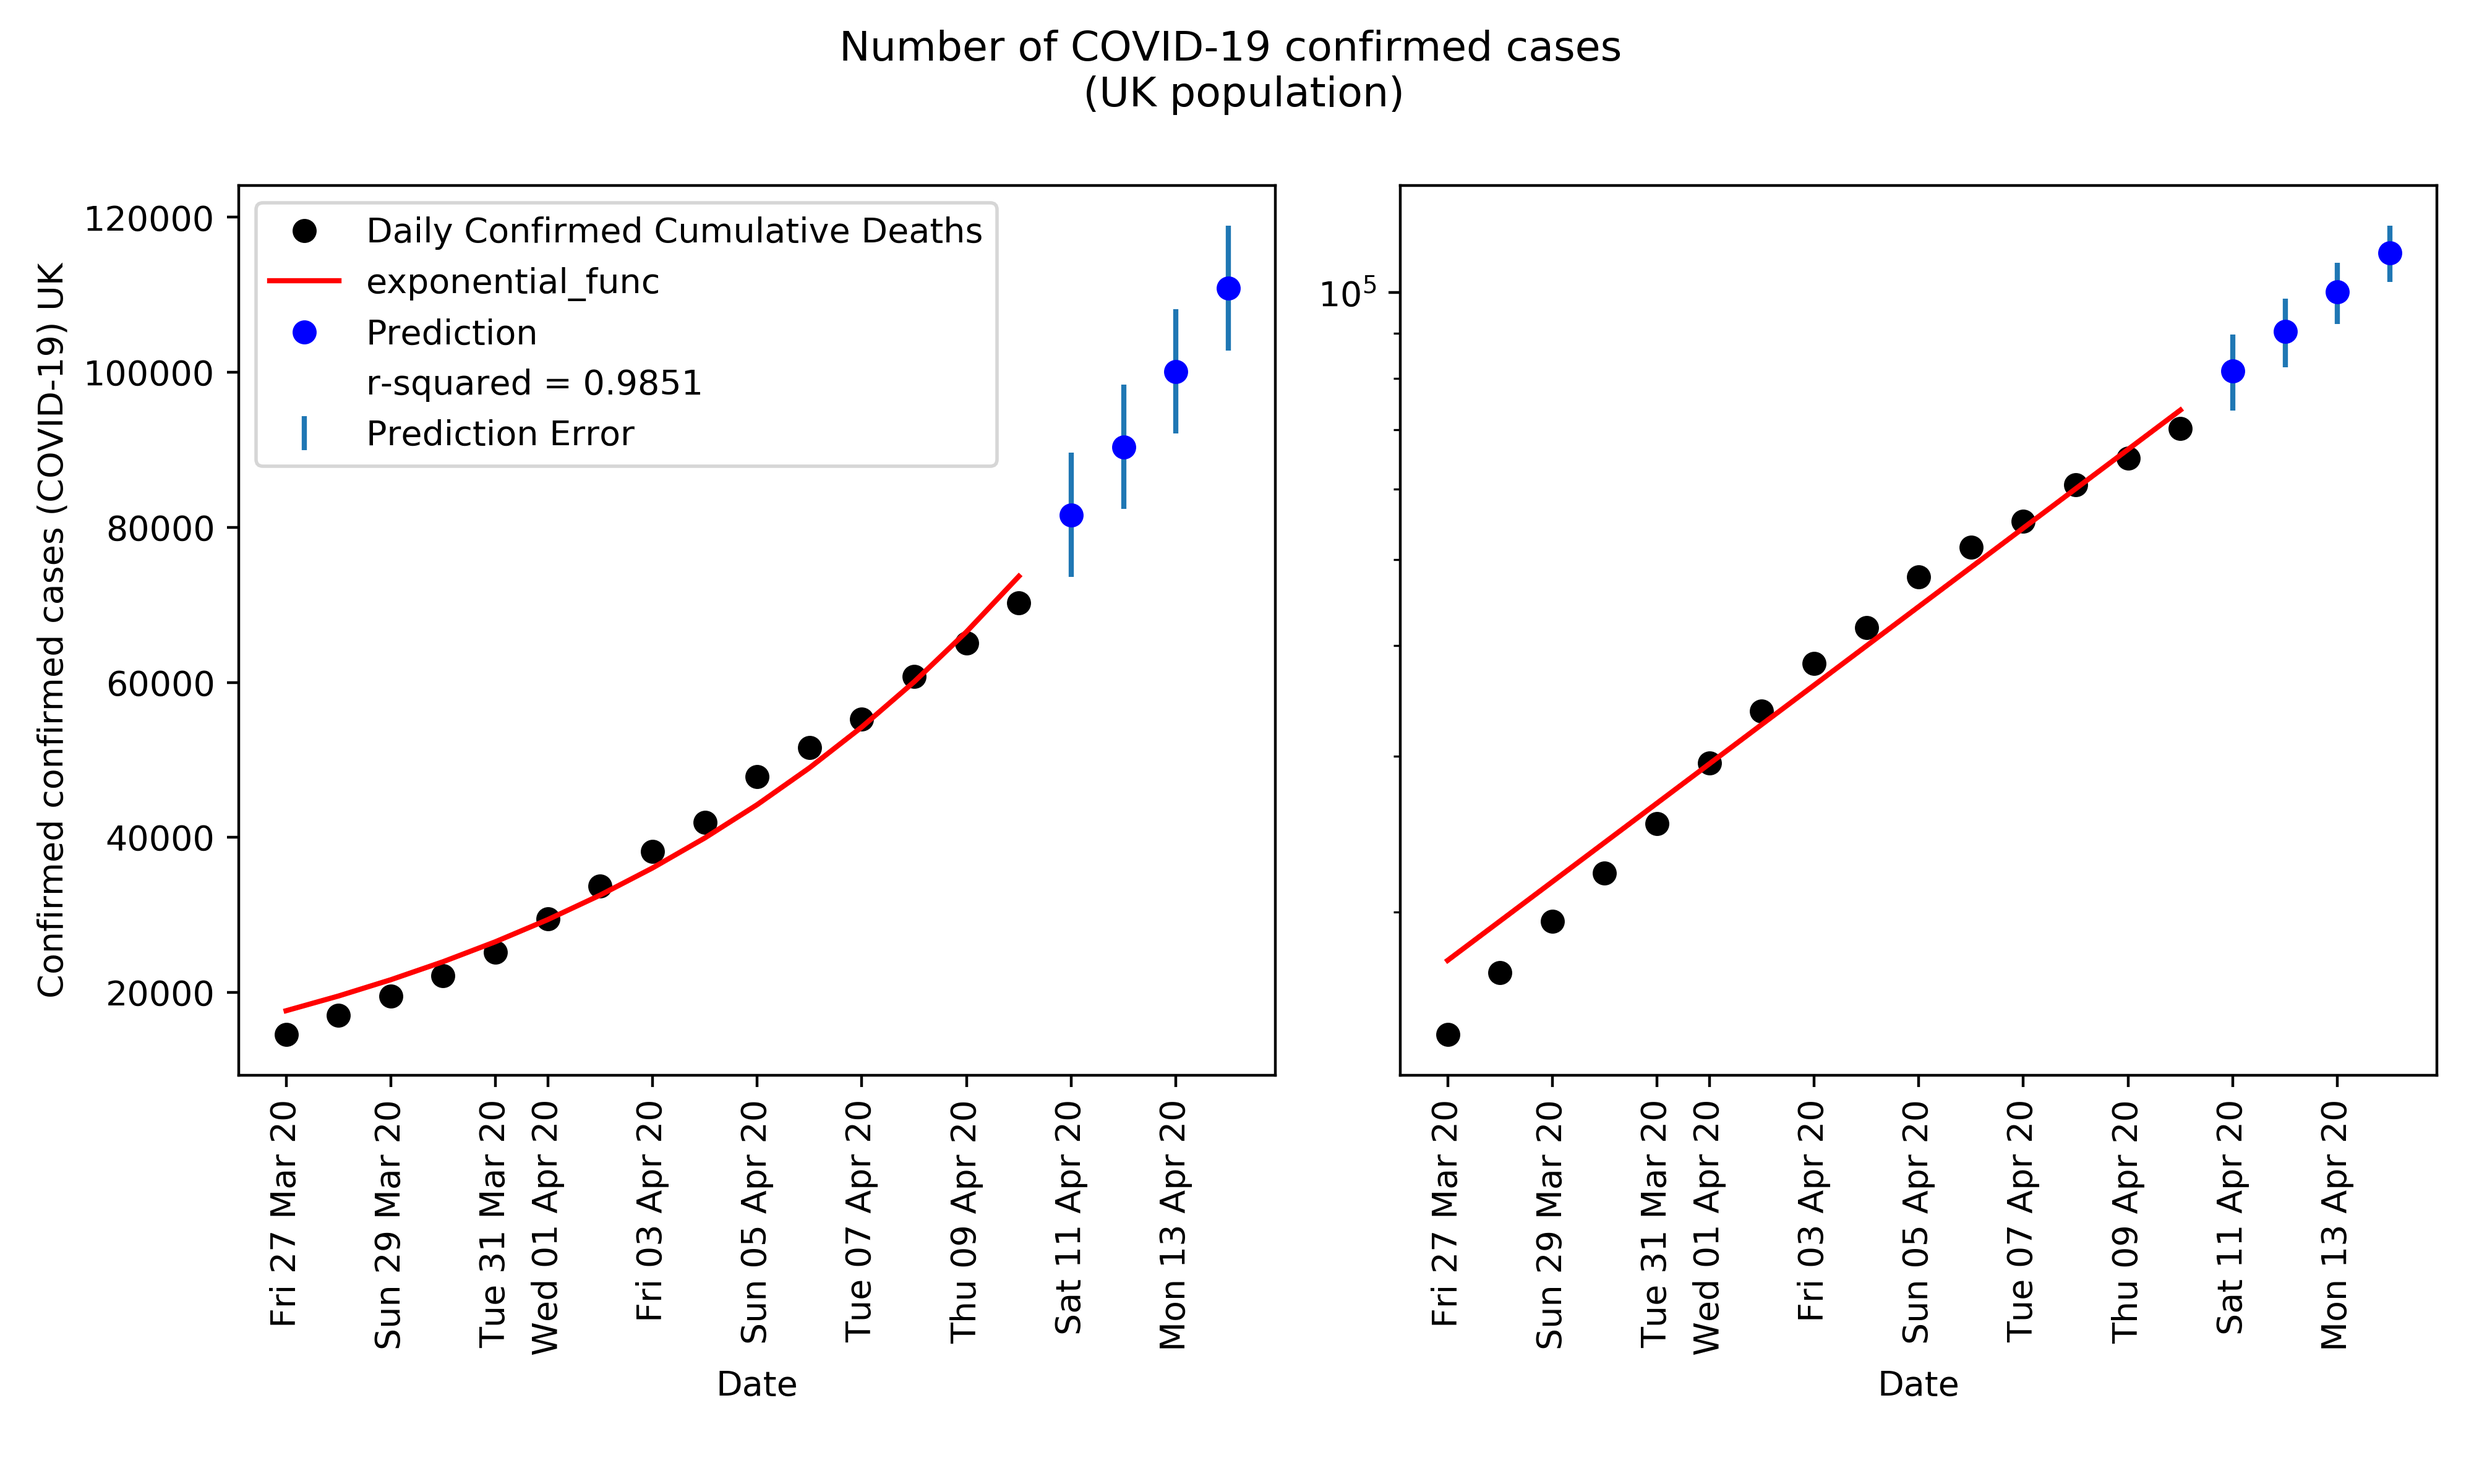
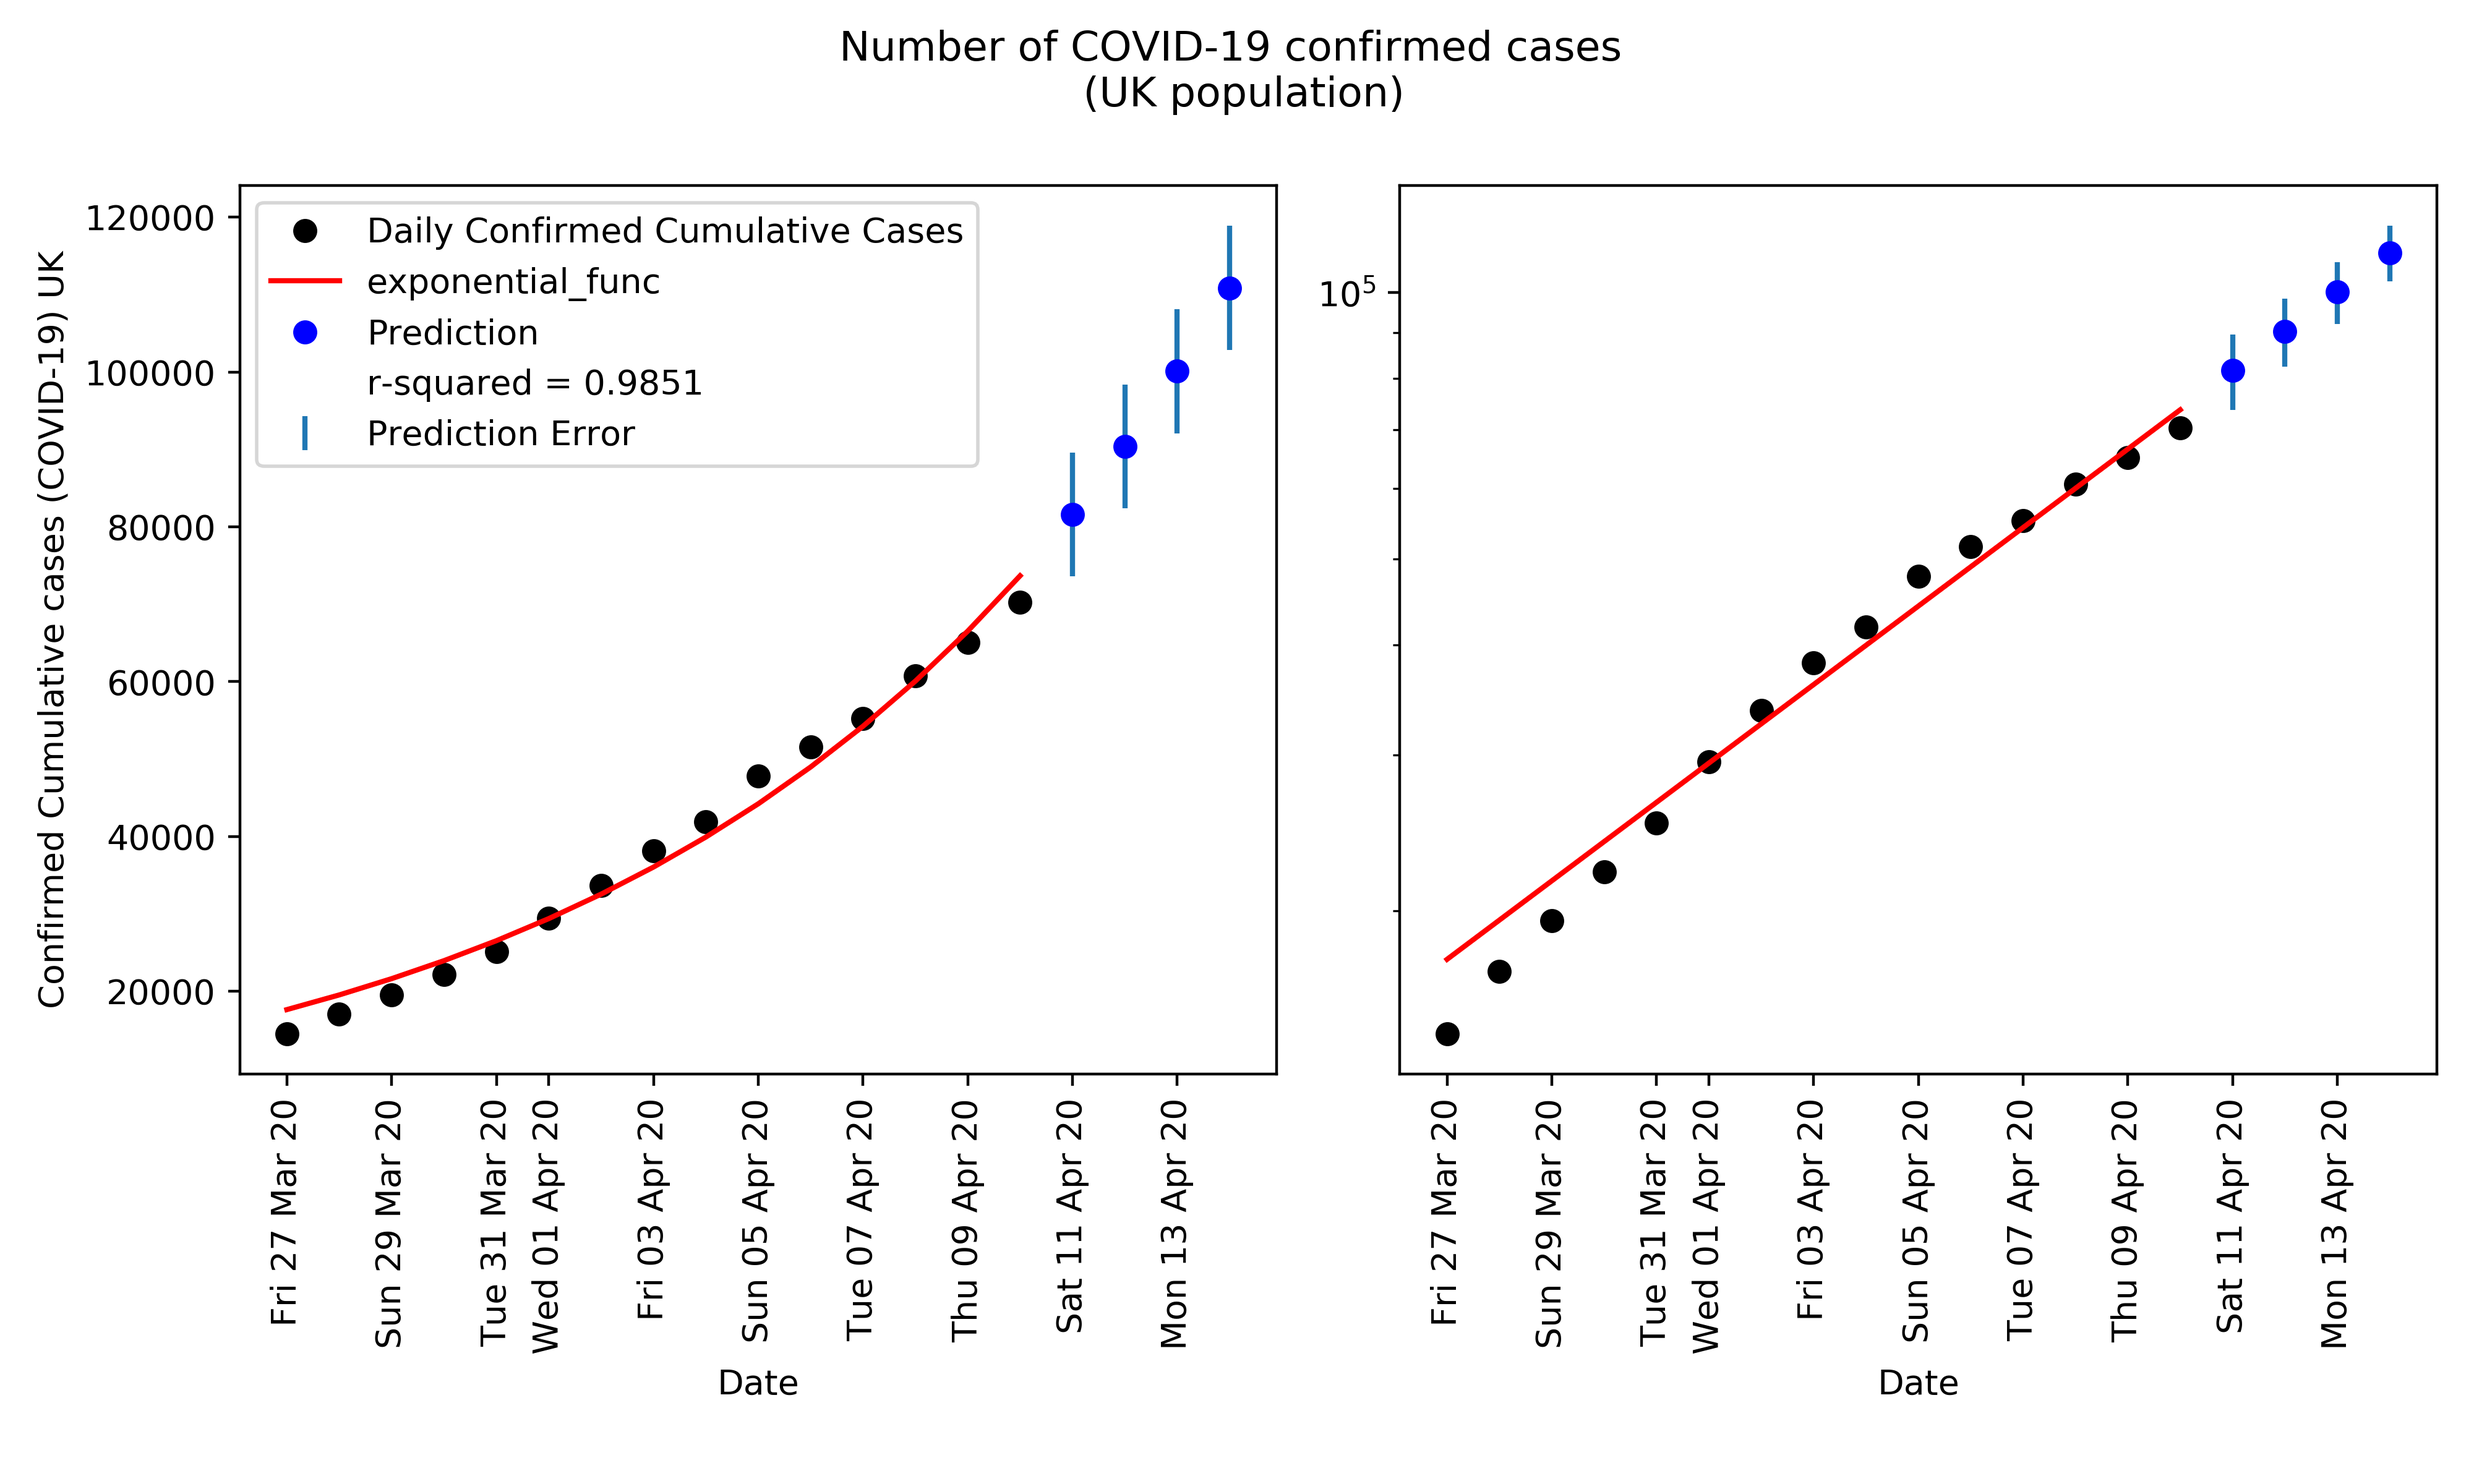
update axis labels

diff --git a/plot_confirmed_cases.py b/plot_confirmed_cases.py
@@ -106,7 +106,7 @@ yerr = exponential_func(x_future, *perr)
 fig, (ax1, ax2) = plt.subplots(1, 2, figsize=(10, 6))
 fig.suptitle('Number of COVID-19 confirmed cases \n (UK population)')
 ax1.set(xlabel="Date")
-ax1.set(ylabel="Confirmed confirmed cases (COVID-19) UK")
+ax1.set(ylabel="Confirmed Cumulative cases (COVID-19) UK")
 ax1.legend(loc='upper left')
 ax2.set_yscale("log")
 ax2.set(xlabel="Date")
@@ -120,7 +120,7 @@ if not os.path.exists(r"./plots/"):
 # create plots
 for ax in (ax1, ax2): 
     # Add measured data 
-    ax.plot(x_dates, y, 'ko', label="Daily Confirmed Cumulative Deaths")
+    ax.plot(x_dates, y, 'ko', label="Daily Confirmed Cumulative Cases")
     
     # Add fit
     ax.plot(x_dates, exponential_func(x, *popt), 'r-', label="exponential_func")
